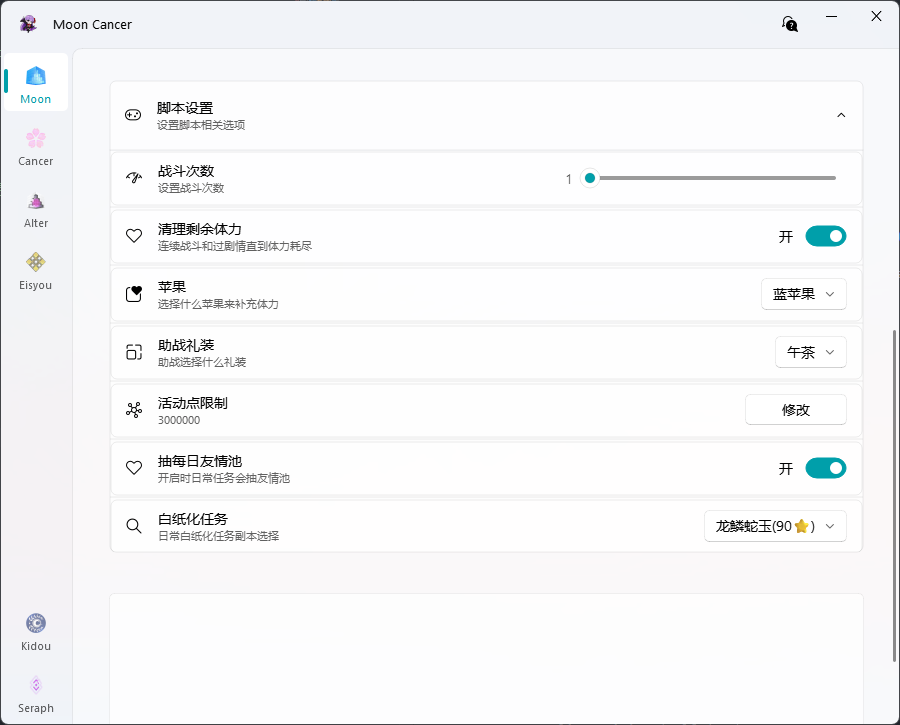
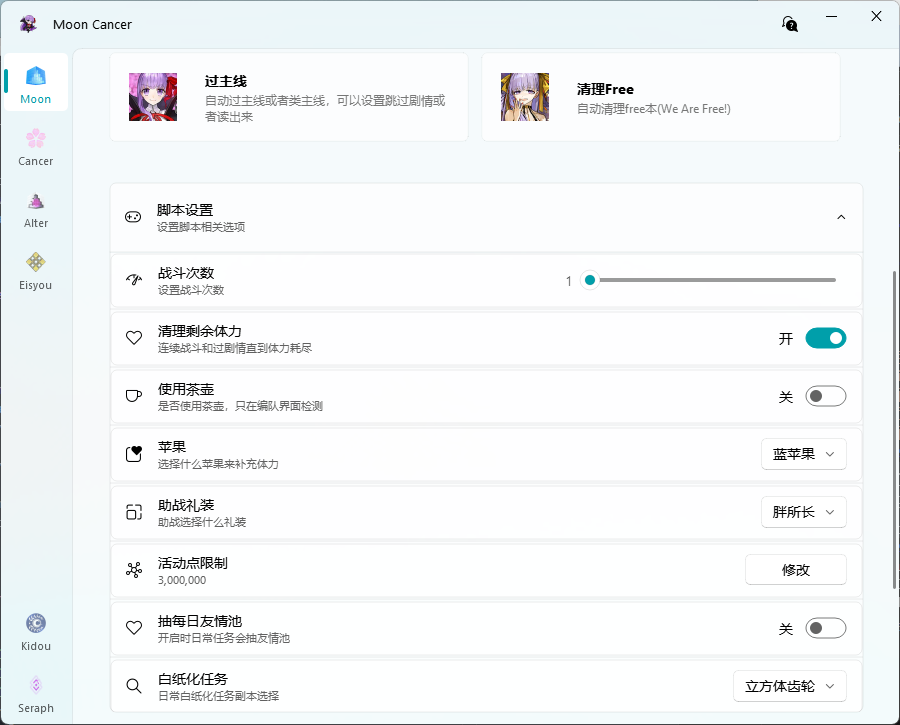
v2.2.1

diff --git a/src/content/posts/MoonCancer1.md b/src/content/posts/MoonCancer1.md
@@ -49,14 +49,15 @@ draft: false
 ## 脚本设置
 设置主页运行任务的具体参数，可展开折叠
 ![settings2](../../assets/images/mooncaner/settings2.png)
-- **战斗次数**如果拖动不精准可以键盘左右键微调，日常任务默认打三次，屯着多次的要一次打完可以直接用战斗设置次数打，过剧情除非开启清理剩余体力，不然会不停过，跟这里的战斗次数无关
-- **清理剩余体力**开启后，所有战斗都会在战斗次数耗尽后，战斗到体力不足
-- **苹果**按需选择即可
-- **助战礼装**按需设置即可，活动礼装默认选择第一个，把助战筛选设置好就行了
-- **活动点限制**，设置活动点限制，超过就停止，不多刷浪费，不限制时设为0，没有活动点的情况不触发
-- **抽每日友情池**，开启会在日常任务打白纸化之前先抽取每日免费友情池
-- **白纸化任务**，选择每日刷的本，按需选取
-- **连接等待时间**，如果自动启动模拟器时，模拟器启动时间过长导致没连上，可以增加等待时间
+- **战斗次数** 如果拖动不精准可以键盘左右键微调，日常任务默认打三次，屯着多次的要一次打完可以直接用战斗设置次数打，过剧情除非开启清理剩余体力，不然会不停过，跟这里的战斗次数无关
+- **清理剩余体力** 开启后，所有战斗都会在战斗次数耗尽后，战斗到体力不足
+- **使用茶壶** 每次编队界面检查茶壶使用状态
+- **苹果** 按需选择即可
+- **助战礼装** 按需设置即可，活动礼装默认选择第一个，把助战筛选设置好就行了
+- **活动点限制** 设置活动点限制，超过就停止，不多刷浪费，不限制时设为0，没有活动点的情况不触发
+- **抽每日友情池** 开启会在日常任务打白纸化之前先抽取每日免费友情池
+- **白纸化任务** 选择每日刷的本，按需选取
+- **连接等待时间** 如果自动启动模拟器时，模拟器启动时间过长导致没连上，可以增加等待时间
 
 ## 日志窗口
 出现问题时可简单用查看情况

diff --git a/src/content/posts/MoonCancer0.md b/src/content/posts/MoonCancer0.md
@@ -18,7 +18,7 @@ draft: false
 - `Cancer`：局内数值修改器，只能在战斗中使用，用来手动修改数值
 - `Alter`：提供更灵活的方式修改局内数值，主要用来打圣杯战线
 - `Eisyou`：随机分配角色朗读剧情，可以挂着当相声听
-- `Kidou`：打开模拟，再打开游戏进入到主界面，再次点击可以取消
+- `Kidou`：打开模拟，再打开游戏进入到主界面
 
 **只支持国服安卓模拟器使用（能在模拟器上登录即可用，包括渠道服、IOS也可也在模拟器上登录）**
 
@@ -54,7 +54,7 @@ draft: false
 ![mooncanermumusetting](../../assets/images/mooncaner/mumusetting.png)
 
 ## 脚本设置
-- 模拟器类型列表里有的都支持自动搜索，没有就选other，这里选MuMu和雷电的话默认使用高速连接，切换到other时只要参数正确也能正常使用adb连接；如果高速连接出现问题可以切换到other使用默认连接方式。
+- 模拟器类型列表里有的都支持自动搜索，没有就选other，这里选MuMu和雷电的话默认使用高速连接，切换到other时只要参数正确也能正常使用adb连接；如果高速连接出现问题可以切换到other使用默认连接方式，`如果是新版MuMu只能选mumu才能正常使用`。
 - 可以自动搜索已经在运行的模拟器，自动搜索设备并设置好所有参数理论支持MuMu、雷电、蓝叠、逍遥、夜神，但只测试了MuMu和雷电，搜不到就自己输入对应的参数，端口上网搜XX模拟器端口，连接问题可以参考[BBChannel](https://www.bilibili.com/opus/605452889655035035?spm_id_from=333.999.0.0)的相关说明。`注意，如果自动搜索成功就不要动下面的模拟器位置和虚拟机进程名称`
 ![settings1](../../assets/images/mooncaner/settings1.png)
 - 模拟器位置，是用来启动模拟器的命令，一般选择模拟主器程序的位置就行了，也可也自己加参数，自动搜索的是带参数的

diff --git a/src/content/posts/MoonCancer.md b/src/content/posts/MoonCancer.md
@@ -13,7 +13,11 @@ draft: false
 [Cancer界面说明](../mooncancer2)<br>
 [Alter界面说明](../mooncancer3)<br>
 [Eisyou界面说明](../mooncancer4)<br>
-
+## 2025年9月18日v2.2.1
+1.优化模拟器连接<br>
+2.优化过主线<br>
+3.增加是否使用茶壶<br>
+4.优化多处逻辑，增加稳定性<br>
 ## 2025年9月14日v2.2.0
 1.增加MuMu高速连接和雷电高速连接，更快更稳定，适配更多模拟器自动搜索<br>
 2.迁移战脚本设置到主页，修改更方便，活动点数限制显示逗号分隔符<br>

diff --git a/src/content/posts/Add-right-click-menu.md b/src/content/posts/Add-right-click-menu.md
@@ -1,7 +1,7 @@
 ---
-title: 在文件夹右键菜单添加cmd管理员、终端(powershell))管理员
+title: 在文件夹右键菜单添加cmd管理员、终端(powershell)管理员
 published: 2025-08-19
-description: '在文件夹右键菜单添加cmd管理员、终端(powershell))管理员'
+description: '在文件夹右键菜单添加cmd管理员、终端(powershell)管理员'
 image: ''
 tags: [cmd, powershell, windows]
 category: 'Share'
